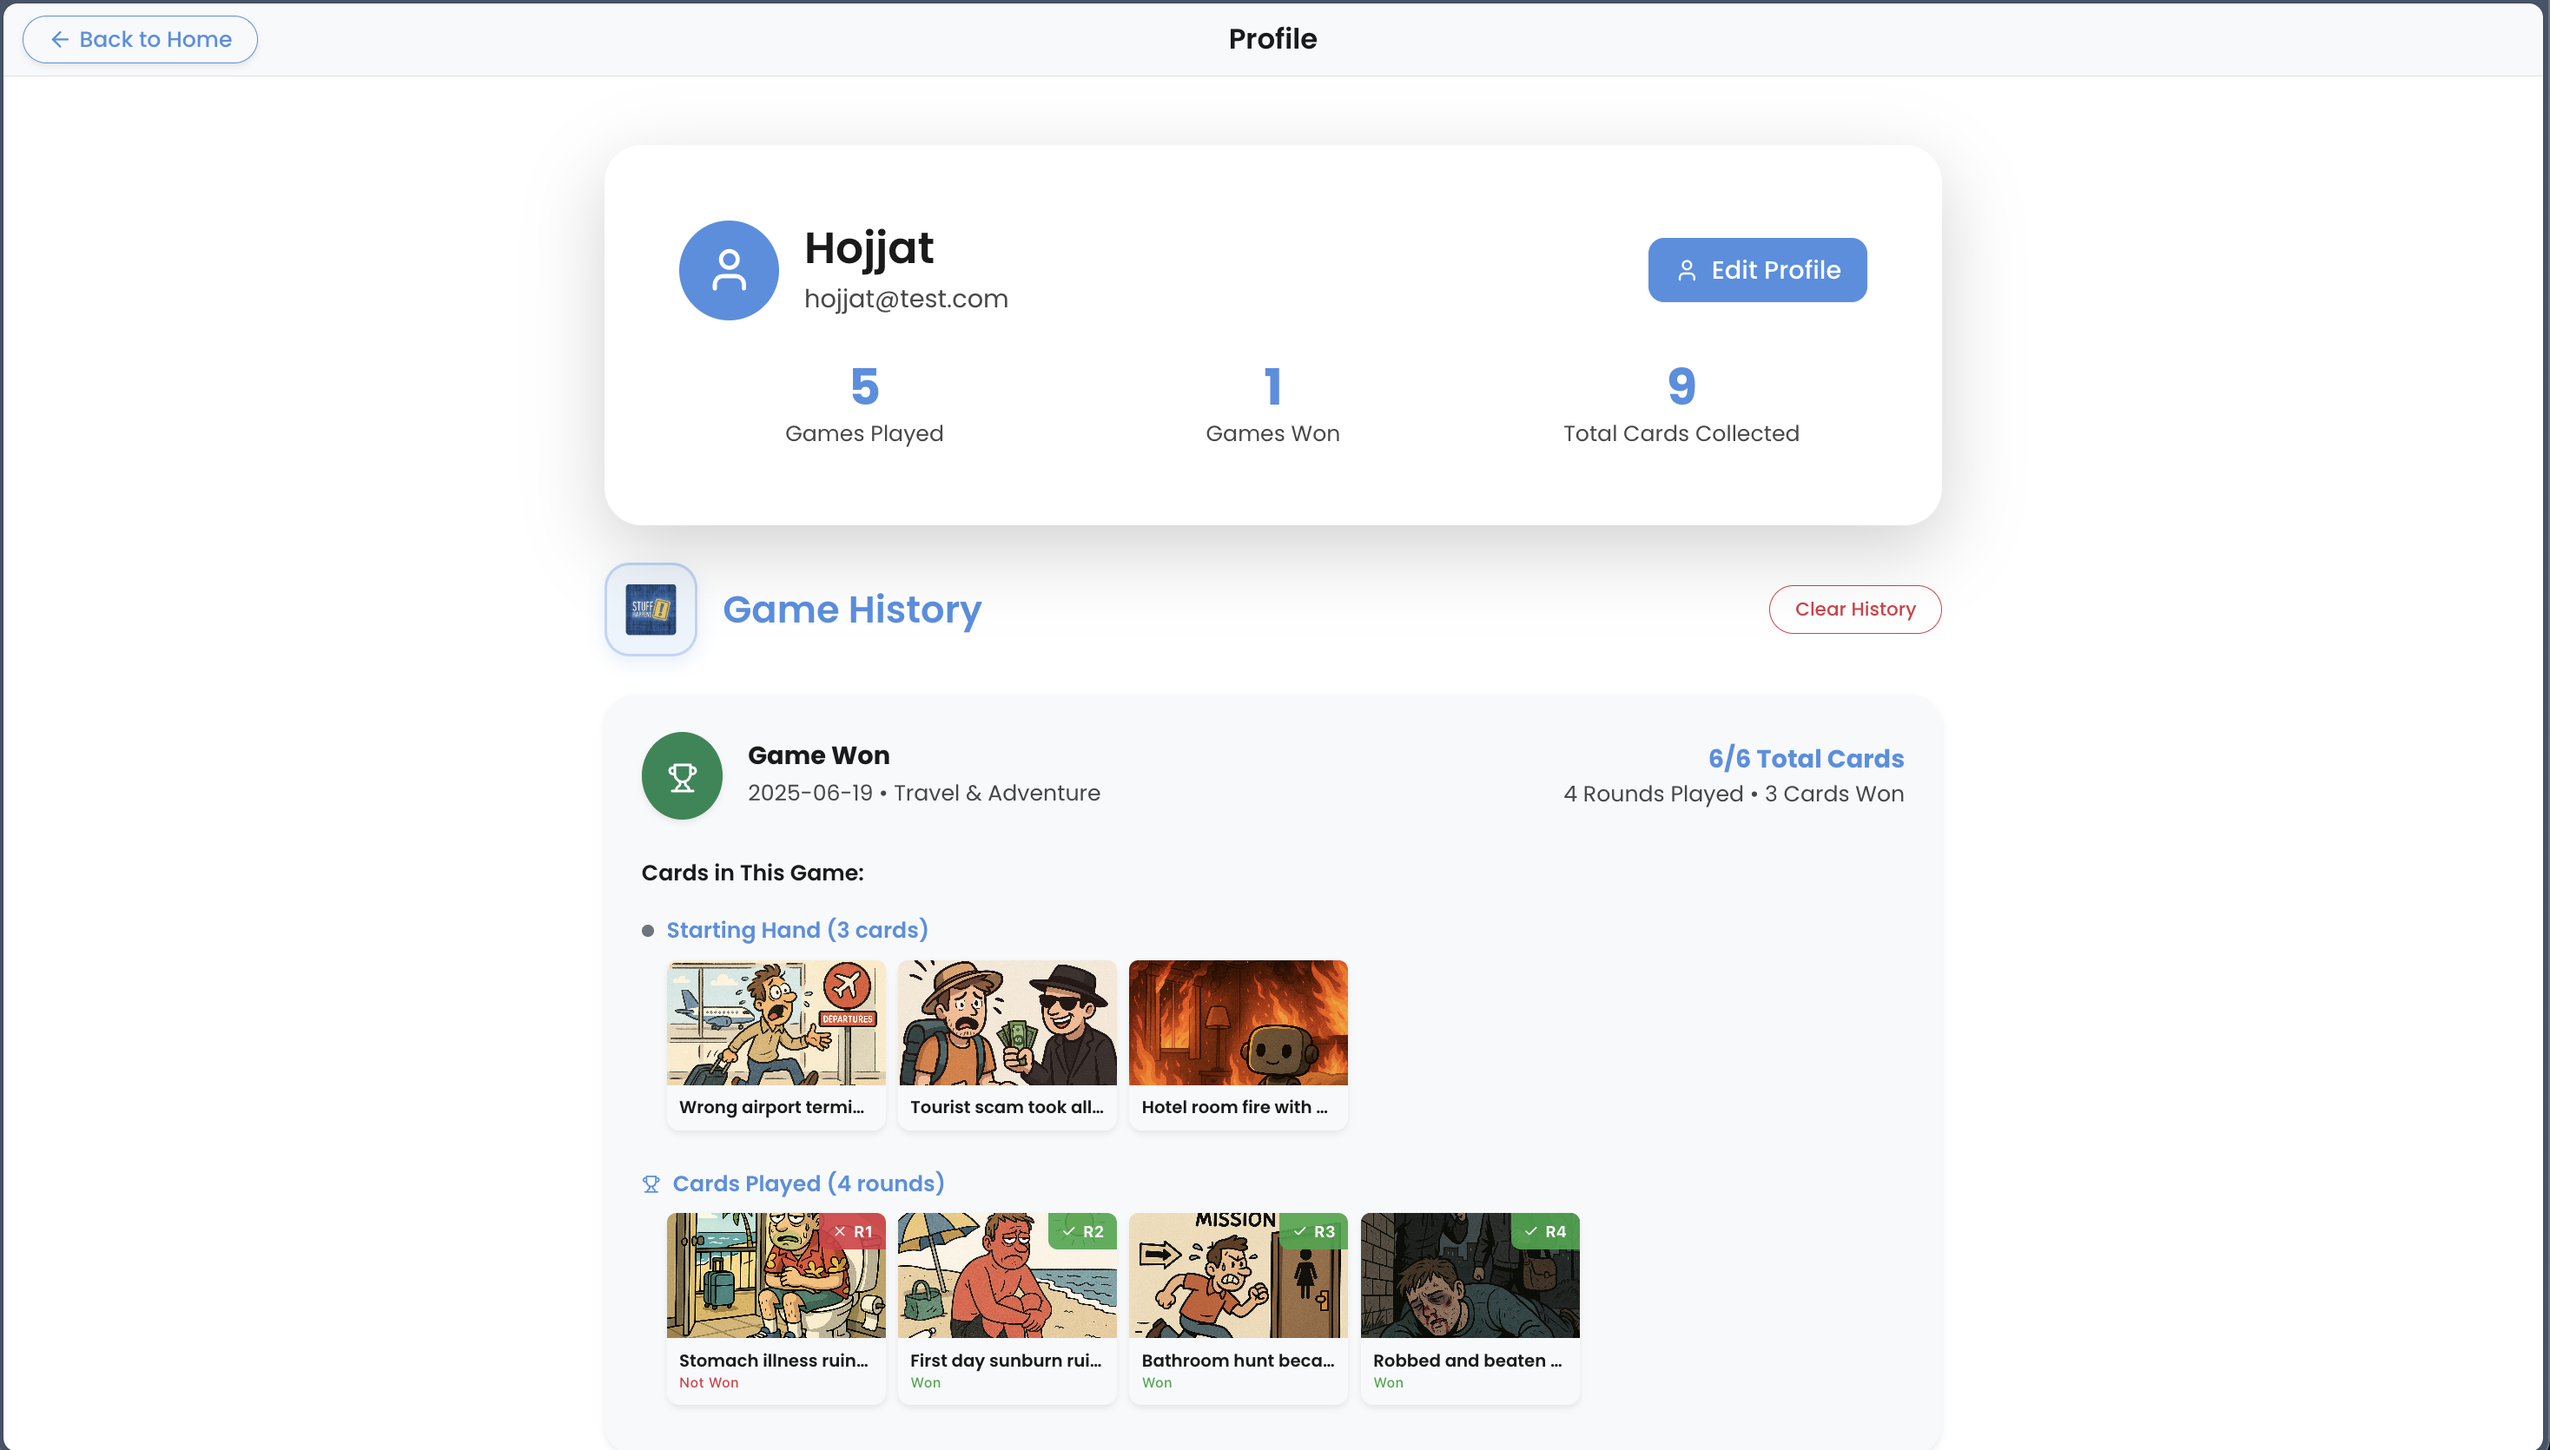
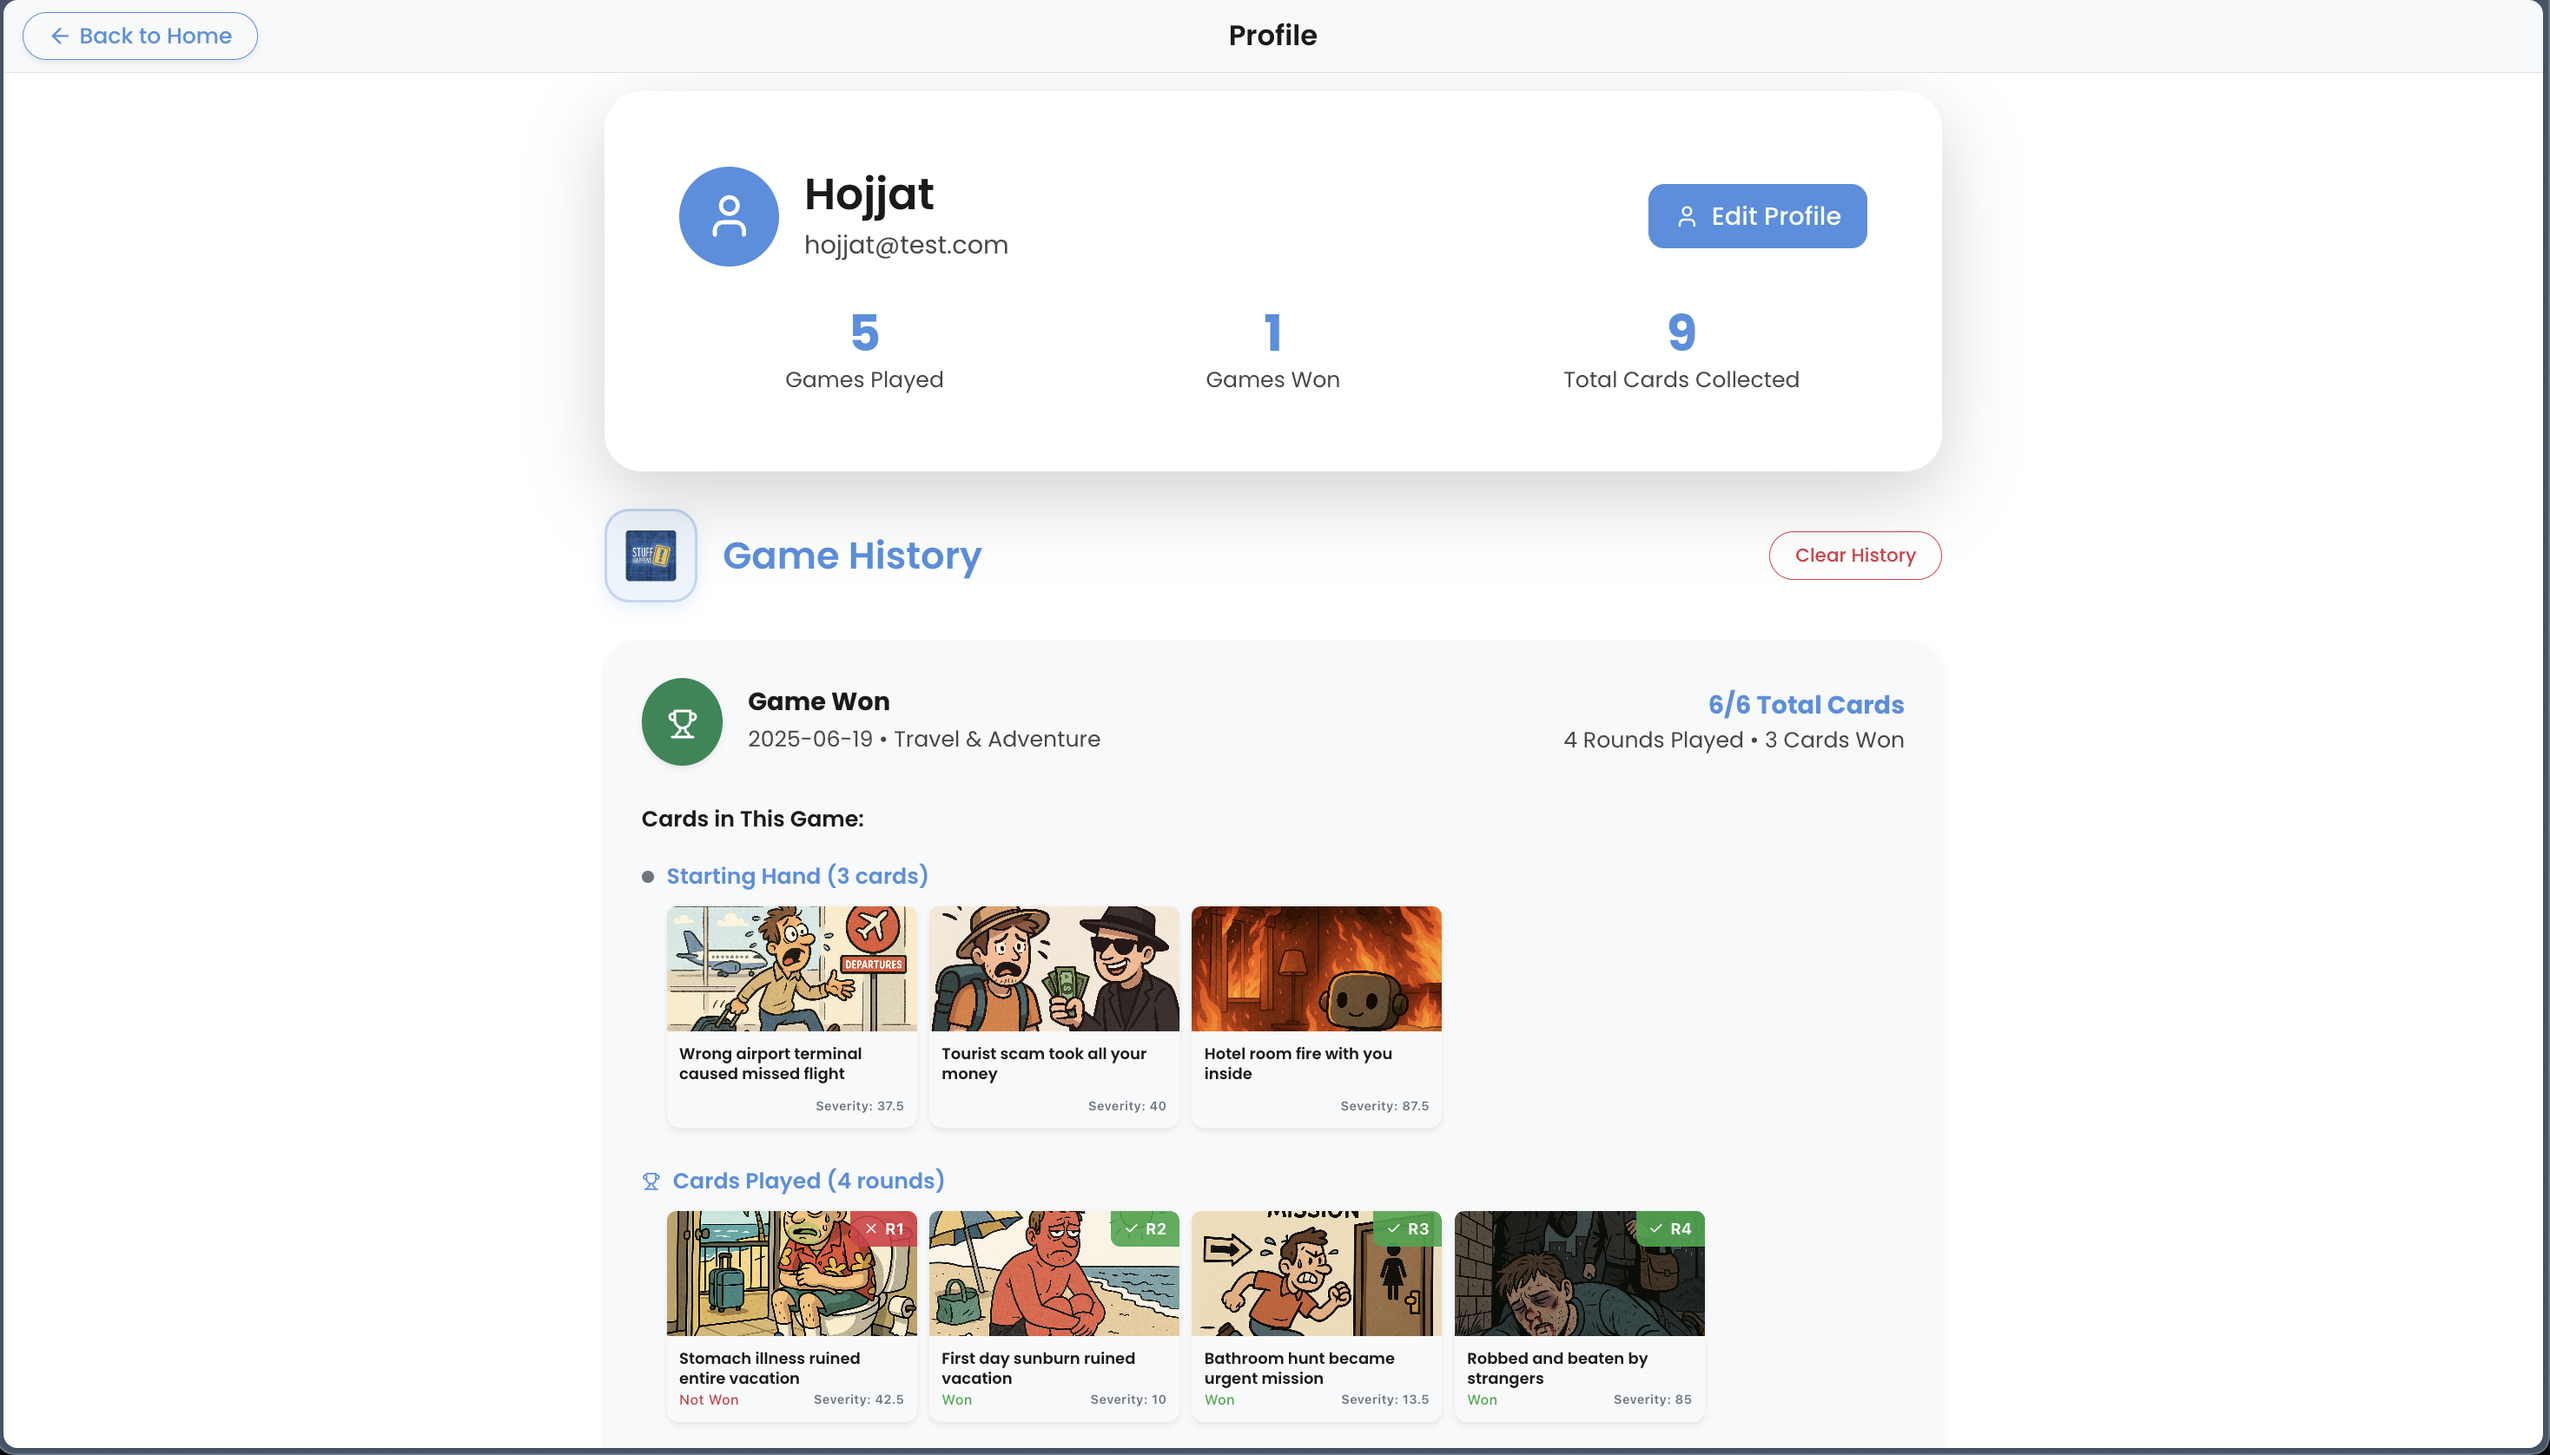
again some update for history part

diff --git a/client/src/pages/Profile.jsx b/client/src/pages/Profile.jsx
@@ -407,13 +407,13 @@ const Profile = () => {
                                   key={`start-${index}`} 
                                   className="card border-0 shadow-sm" 
                                   style={{
-                                    width: '140px',
+                                    width: '160px',
                                     backgroundColor: isDark ? '#333333' : '#f8f9fa',
                                     borderRadius: '8px',
                                     border: '2px solid #6c757d'
                                   }}
                                 >
-                                  <div className="position-relative" style={{height: '80px', overflow: 'hidden', borderRadius: '6px 6px 0 0'}}>
+                                                                    <div className="position-relative" style={{height: '80px', overflow: 'hidden', borderRadius: '6px 6px 0 0'}}>
                                     <img 
                                       src={card.image_url || '/images/travel1.png'} 
                                       alt={card.disaster || card.title}
@@ -427,16 +427,32 @@ const Profile = () => {
                                   </div>
                                   <div className="card-body p-2">
                                     <div 
-                                      className="small fw-semibold text-truncate" 
+                                      className="small fw-semibold" 
                                       style={{
                                         fontFamily: 'Poppins, sans-serif', 
-                                        fontSize: '11px',
+                                        fontSize: '10px',
                                         color: isDark ? 'white' : '#1a1a1a',
-                                        lineHeight: '1.2'
+                                        lineHeight: '1.3',
+                                        height: '32px',
+                                        overflow: 'hidden',
+                                        display: '-webkit-box',
+                                        WebkitLineClamp: 2,
+                                        WebkitBoxOrient: 'vertical'
                                       }}
                                       title={`${card.disaster || card.title} (ID: ${card.card_id || 'N/A'})`}
                                     >
                                       {card.disaster || card.title}
+                                    </div>
+                                    <div 
+                                      className="d-flex justify-content-end"
+                                      style={{
+                                        fontSize: '8px',
+                                        color: '#6c757d',
+                                        fontWeight: '600',
+                                        marginTop: '2px'
+                                      }}
+                                    >
+                                      Severity: {card.bad_luck_severity || 'N/A'}
                                     </div>
                                   </div>
                                 </div>
@@ -460,7 +476,7 @@ const Profile = () => {
                                   key={`round-${index}`} 
                                   className="card border-0 shadow-sm" 
                                   style={{
-                                    width: '140px',
+                                    width: '160px',
                                     backgroundColor: isDark ? '#333333' : '#f8f9fa',
                                     borderRadius: '8px',
                                     border: `2px solid ${round.result === 'correct' ? '#28a745' : '#dc3545'}`
@@ -492,29 +508,47 @@ const Profile = () => {
                                       )}
                                       R{round.round}
                                     </div>
+
                                   </div>
                                   <div className="card-body p-2">
                                     <div 
-                                      className="small fw-semibold text-truncate" 
+                                      className="small fw-semibold" 
                                       style={{
                                         fontFamily: 'Poppins, sans-serif', 
-                                        fontSize: '11px',
+                                        fontSize: '10px',
                                         color: isDark ? 'white' : '#1a1a1a',
-                                        lineHeight: '1.2'
+                                        lineHeight: '1.3',
+                                        height: '26px',
+                                        overflow: 'hidden',
+                                        display: '-webkit-box',
+                                        WebkitLineClamp: 2,
+                                        WebkitBoxOrient: 'vertical'
                                       }}
                                       title={`${round.disaster} (ID: ${round.card_id || 'N/A'})`}
                                     >
                                       {round.disaster}
                                     </div>
-                                    <div 
-                                      className="small"
-                                      style={{
-                                        fontSize: '9px',
-                                        color: round.result === 'correct' ? '#28a745' : '#dc3545',
-                                        fontWeight: '500'
-                                      }}
-                                    >
-                                      {round.result === 'correct' ? 'Won' : 'Not Won'}
+                                    <div className="d-flex justify-content-between align-items-center">
+                                      <div 
+                                        className="small"
+                                        style={{
+                                          fontSize: '9px',
+                                          color: round.result === 'correct' ? '#28a745' : '#dc3545',
+                                          fontWeight: '500'
+                                        }}
+                                      >
+                                        {round.result === 'correct' ? 'Won' : 'Not Won'}
+                                      </div>
+                                      <div 
+                                        className="small"
+                                        style={{
+                                          fontSize: '8px',
+                                          color: '#6c757d',
+                                          fontWeight: '600'
+                                        }}
+                                      >
+                                        Severity: {round.bad_luck_severity || 'N/A'}
+                                      </div>
                                     </div>
                                   </div>
                                 </div>

diff --git a/client/src/components/ThemeToggle.jsx b/client/src/components/ThemeToggle.jsx
@@ -1,7 +1,7 @@
 import React from 'react';
 import { Sun, Moon } from 'lucide-react';
 import { useTheme } from '../contexts/ThemeContext';
-
+// Just the design of the theme toggle button the logic is in the ThemeContext.jsx
 const ThemeToggle = ({ style = {}, className = '' }) => {
   const { isDark, toggleTheme } = useTheme();
 

diff --git a/client/src/contexts/ThemeContext.jsx b/client/src/contexts/ThemeContext.jsx
@@ -1,7 +1,7 @@
 import React, { createContext, useContext, useState, useEffect } from 'react';
 
 const ThemeContext = createContext();
-
+// This is the logic for the theme toggle button
 export const useTheme = () => {
   const context = useContext(ThemeContext);
   if (!context) {
